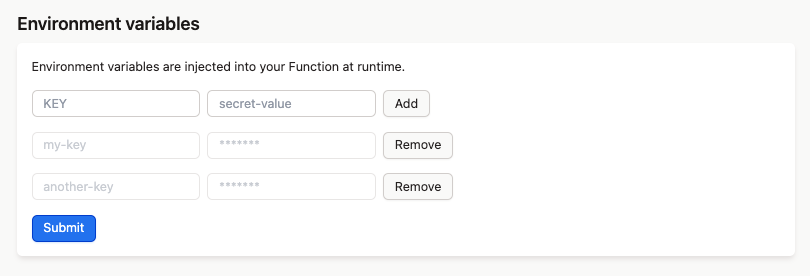
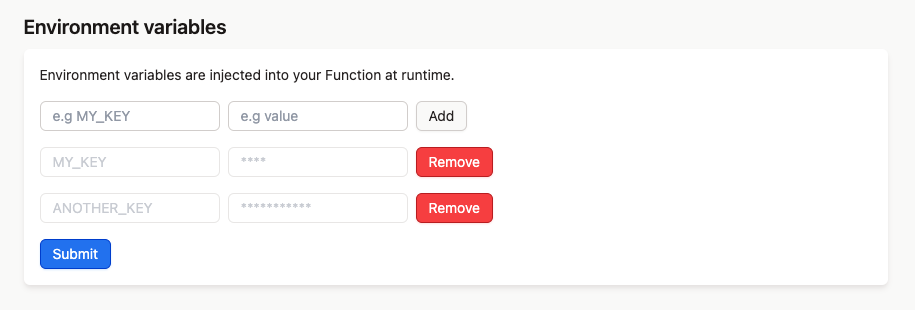
feat(dashboard,docs): improve environment variables (#836)

diff --git a/packages/dashboard/lib/pages/function/FunctionSettings.tsx b/packages/dashboard/lib/pages/function/FunctionSettings.tsx
@@ -1,6 +1,6 @@
 import { useRouter } from 'next/router';
 import toast from 'react-hot-toast';
-import { Button, Card, Form, Input, Text, TagsInput, Dialog, Menu } from '@lagon/ui';
+import { Button, Card, Form, Input, Text, TagsInput, Dialog, Menu, Divider } from '@lagon/ui';
 import { getCurrentDomain } from 'lib/utils';
 import {
   composeValidators,
@@ -174,7 +174,7 @@ const FunctionSettings = ({ func, refetch }: FunctionSettingsProps) => {
       </Form>
       <Form
         initialValues={{
-          env: func?.env || [],
+          env: func?.env || {},
         }}
         onSubmit={async ({ env }) => {
           if (!func) {
@@ -183,17 +183,10 @@ const FunctionSettings = ({ func, refetch }: FunctionSettingsProps) => {
 
           await updateFunction.mutateAsync({
             functionId: func.id,
-            env: (env as Array<string | Record<'key' | 'value', string>>).map(currentEnv => {
-              // return already-normalised env
-              if (typeof currentEnv !== 'string') return currentEnv;
-
-              const [key, value] = currentEnv.split('=');
-
-              return {
-                key,
-                value,
-              };
-            }),
+            env: Object.entries<string>(env).reduce(
+              (acc, [key, value]) => [...acc, { key, value }],
+              [] as { key: string; value: string }[],
+            ),
           });
 
           await refetch();
@@ -206,7 +199,30 @@ const FunctionSettings = ({ func, refetch }: FunctionSettingsProps) => {
           <Card title={t('env.title')} description={t('env.description')}>
             <div className="flex flex-col items-start gap-4">
               <div className="flex flex-col items-start gap-2 md:flex-row md:items-center">
-                <Input name="envKey" placeholder={t('env.placeholder.key')} disabled={updateFunction.isLoading} />
+                <Input
+                  name="envKey"
+                  placeholder={t('env.placeholder.key')}
+                  disabled={updateFunction.isLoading}
+                  onPaste={event => {
+                    const text = event.clipboardData.getData('text');
+
+                    if (text.includes('\n')) {
+                      const entries = text.split('\n');
+                      const pastedEnv: Record<string, string> = {};
+
+                      for (const entry of entries) {
+                        const [key, value] = entry.split(/=(.*)/s);
+
+                        if (key && value && !key.trimStart().startsWith('#')) {
+                          pastedEnv[key] = value;
+                        }
+                      }
+
+                      form.change('env', { ...values.env, ...pastedEnv });
+                      event.preventDefault();
+                    }
+                  }}
+                />
                 <Input
                   name="envValue"
                   placeholder={t('env.placeholder.value')}
@@ -219,9 +235,7 @@ const FunctionSettings = ({ func, refetch }: FunctionSettingsProps) => {
                     const { envKey, envValue } = values;
 
                     if (envKey && envValue) {
-                      form.change('env', [...values.env, `${envKey}=${envValue}`]);
-                      form.change(`${envKey}-key`, envKey);
-                      form.change(`${envKey}-value`, envValue);
+                      form.change('env', { ...values.env, [envKey]: envValue });
 
                       form.change('envKey', '');
                       form.change('envValue', '');
@@ -231,18 +245,22 @@ const FunctionSettings = ({ func, refetch }: FunctionSettingsProps) => {
                   {t('env.add')}
                 </Button>
               </div>
-              {values.env.map(({ key }: { key: string }) => {
+              {Object.entries<string>(values.env).map(([key, value], index) => {
                 return (
-                  <div key={key} className="flex flex-col items-start gap-2 md:flex-row md:items-center">
+                  <div
+                    key={`${key}-${value}-${index}`}
+                    className="flex flex-col items-start gap-2 md:flex-row md:items-center"
+                  >
                     <Input name={`${key}-key`} placeholder={key} disabled />
-                    <Input name={`${key}-value`} placeholder="*******" disabled />
+                    <Input name={`${key}-value`} placeholder={new Array(value.length).fill('*').join('')} disabled />
                     <Button
                       disabled={updateFunction.isLoading}
+                      variant="danger"
                       onClick={() => {
-                        form.change(
-                          'env',
-                          values.env.filter(({ key: currentKey }: { key: string }) => key !== currentKey),
-                        );
+                        const newEnv = { ...values.env };
+                        delete newEnv[key];
+
+                        form.change('env', newEnv);
                       }}
                     >
                       {t('env.remove')}

diff --git a/packages/ui/src/components/Input/index.tsx b/packages/ui/src/components/Input/index.tsx
@@ -3,15 +3,17 @@ import { VariantProps } from 'class-variance-authority';
 import { FieldValidator } from 'final-form';
 import { Text } from '../';
 import { variants } from './styles';
+import { ClipboardEventHandler } from 'react';
 
 type InputProps = {
   name: string;
   type?: string;
   placeholder?: string;
   validator?: FieldValidator<string | number>;
+  onPaste?: ClipboardEventHandler<HTMLInputElement>;
 } & VariantProps<typeof variants>;
 
-export const Input = ({ name, type = 'text', placeholder, disabled, validator }: InputProps) => {
+export const Input = ({ name, type = 'text', placeholder, disabled, validator, onPaste }: InputProps) => {
   const styles = variants({ disabled });
 
   return (
@@ -25,6 +27,7 @@ export const Input = ({ name, type = 'text', placeholder, disabled, validator }:
             disabled={!!disabled}
             aria-disabled={!!disabled}
             className={styles}
+            onPaste={onPaste}
           />
           {meta.touched && meta.error ? <Text error>{meta.error}</Text> : null}
         </div>

diff --git a/packages/dashboard/locales/fr.ts b/packages/dashboard/locales/fr.ts
@@ -231,8 +231,8 @@ export default defineLocale({
   'functions.settings.cron.success': 'Le Cron de la Fonction a été mis à jour.',
   'functions.settings.env.title': "Variables d'environement",
   'functions.settings.env.description': "Les Variables d'environement sont injectés dans votre Fonction au runtime",
-  'functions.settings.env.placeholder.key': 'CLEE',
-  'functions.settings.env.placeholder.value': 'valeur-secrete',
+  'functions.settings.env.placeholder.key': 'ex. MA_CLEE',
+  'functions.settings.env.placeholder.value': 'ex. valeure',
   'functions.settings.env.add': 'Ajouter',
   'functions.settings.env.remove': 'Supprimer',
   'functions.settings.env.submit': 'Valider',

diff --git a/packages/dashboard/locales/en.ts b/packages/dashboard/locales/en.ts
@@ -224,8 +224,8 @@ export default {
   'functions.settings.cron.success': 'Function Cron updated successfully.',
   'functions.settings.env.title': 'Environment variables',
   'functions.settings.env.description': 'Environment variables are injected into your Function at runtime.',
-  'functions.settings.env.placeholder.key': 'KEY',
-  'functions.settings.env.placeholder.value': 'secret-value',
+  'functions.settings.env.placeholder.key': 'e.g MY_KEY',
+  'functions.settings.env.placeholder.value': 'e.g value',
   'functions.settings.env.add': 'Add',
   'functions.settings.env.remove': 'Remove',
   'functions.settings.env.submit': 'Submit',

diff --git a/packages/dashboard/pages/functions/[functionId].tsx b/packages/dashboard/pages/functions/[functionId].tsx
@@ -25,9 +25,11 @@ const Function = () => {
       titleStatus="success"
       rightItem={func?.cron === null ? <FunctionLinks func={func} /> : undefined}
     >
-      <Head>
-        <title>{func?.name || 'Loading...'}</title>
-      </Head>
+      {func?.name ? (
+        <Head>
+          <title>{func.name} - Lagon</title>
+        </Head>
+      ) : null}
       <Nav defaultValue="overview">
         <Nav.List
           rightItem={
@@ -58,6 +60,6 @@ const Function = () => {
   );
 };
 
-Function.title = 'Loading...';
+Function.title = 'Overview';
 
 export default Function;

diff --git a/packages/dashboard/lib/trpc/functionsRouter.ts b/packages/dashboard/lib/trpc/functionsRouter.ts
@@ -113,6 +113,7 @@ export const functionsRouter = (t: T) =>
 
         return {
           ...func,
+          env: func.env.reduce((acc, { key, value }) => ({ ...acc, [key]: value }), {}),
           domains: func.domains.map(({ domain }) => domain),
         };
       }),

diff --git a/.changeset/wild-apes-smell.md b/.changeset/wild-apes-smell.md
@@ -1,0 +1,6 @@
+---
+'@lagon/dashboard': patch
+'@lagon/docs': patch
+---
+
+Improve environment variables with support for copy/pasting a .env file

diff --git a/.changeset/swift-books-grow.md b/.changeset/swift-books-grow.md
@@ -1,0 +1,5 @@
+---
+'@lagon/docs': patch
+---
+
+Add a warning that custom domains aren't supported

diff --git a/.changeset/nasty-avocados-sparkle.md b/.changeset/nasty-avocados-sparkle.md
@@ -1,0 +1,5 @@
+---
+'@lagon/dashboard': patch
+---
+
+Fix page title on functions overview
